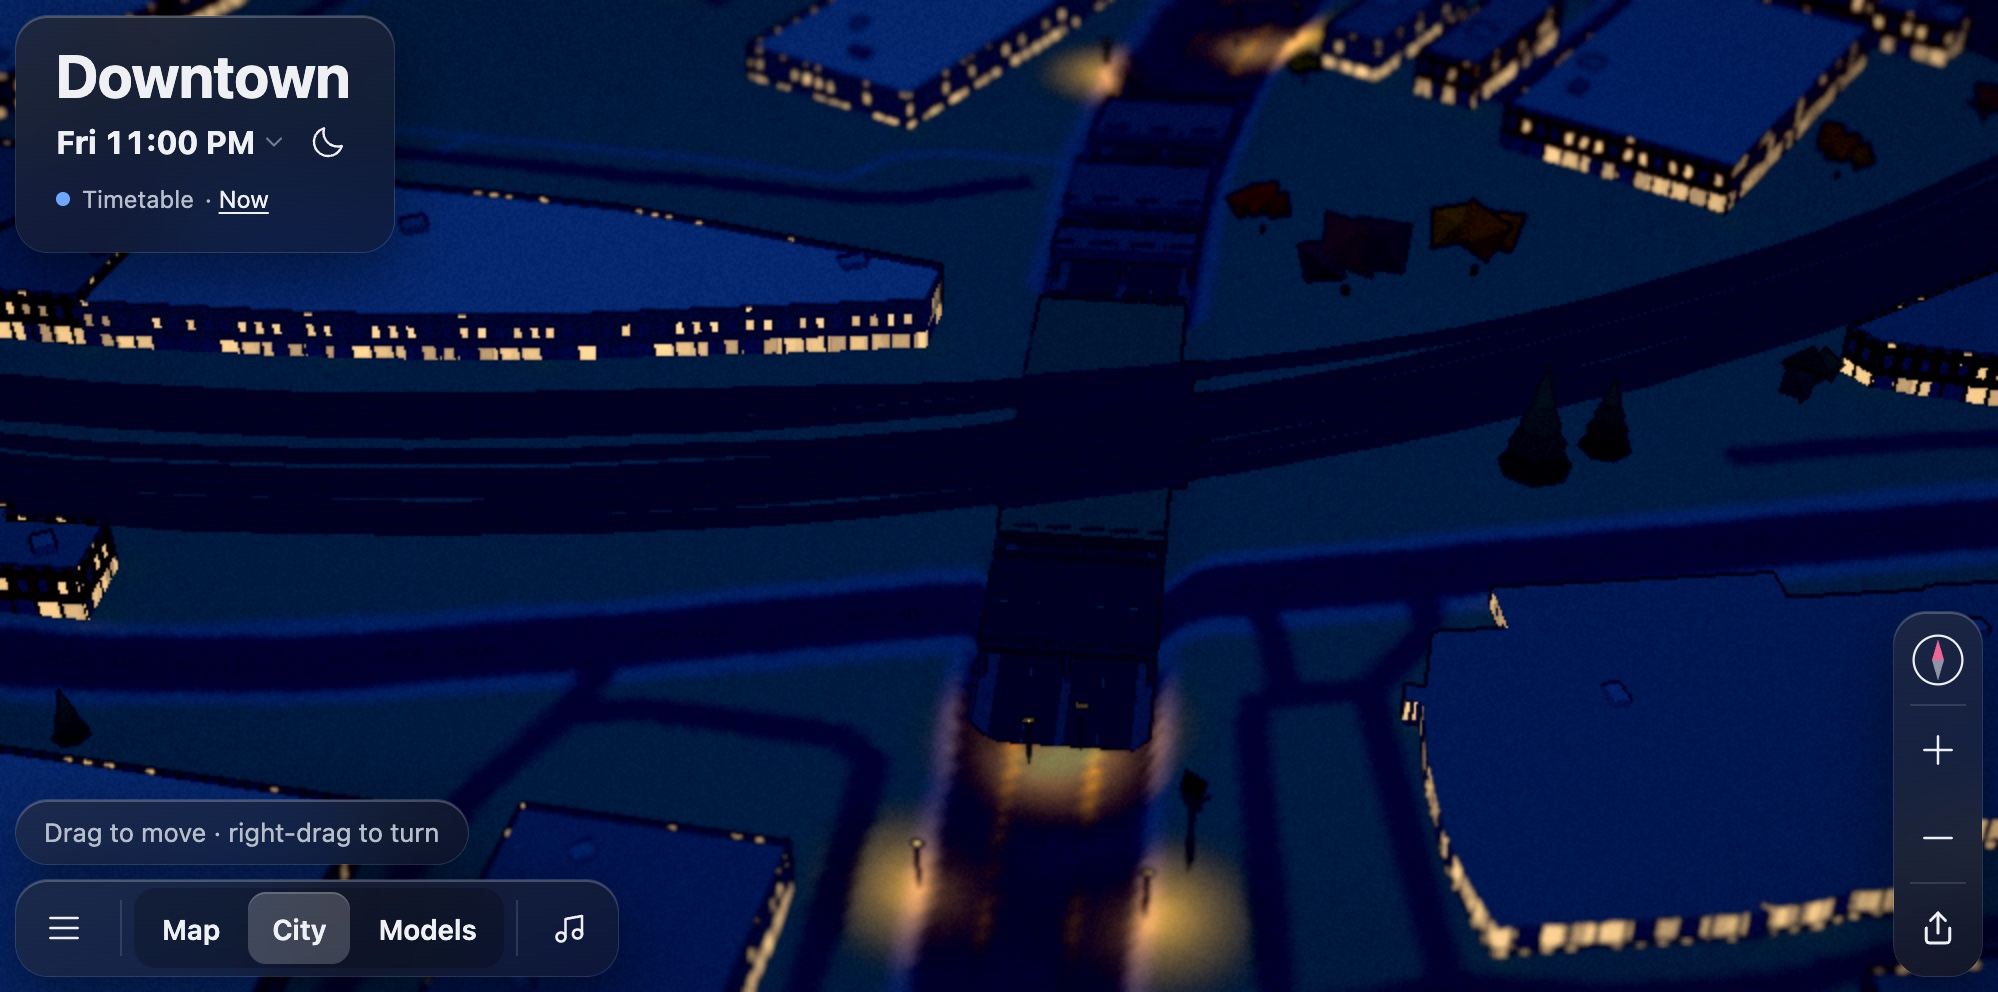
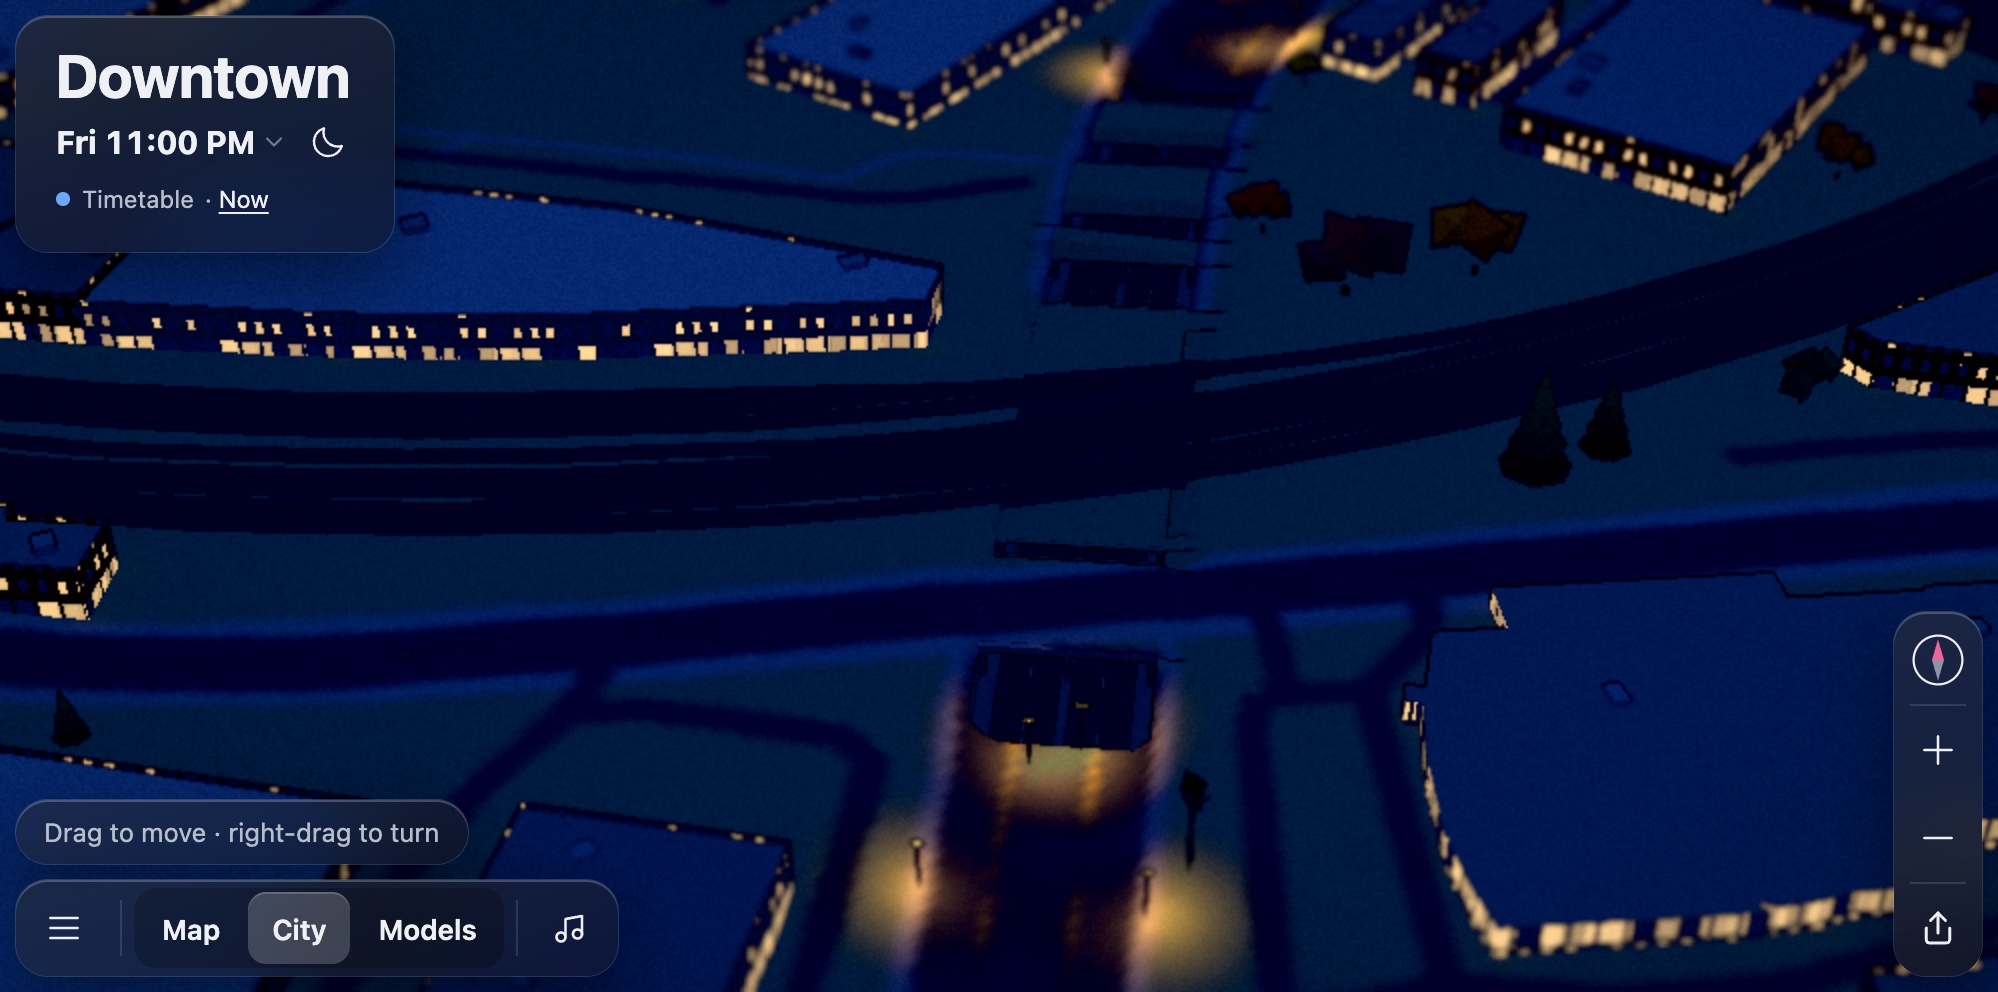
Record option A day and night comparisons on the heap fix

diff --git a/docs/build-log.md b/docs/build-log.md
@@ -3071,3 +3071,26 @@ Compare the [earlier overview](https://github.com/samsolomon/sim-atlanta/blob/03
 and [earlier under-deck view](https://github.com/samsolomon/sim-atlanta/blob/030d123f/docs/log/north-ave-under-deck.jpg)
 with the [revised overview](log/north-ave-after-day.jpg) and [revised under-deck view](log/north-ave-under-deck.jpg).
 The matched low-tier frame adds 4,279 triangles and one draw over main.
+
+### 2026-11-23 — Carry the street and railway across North Avenue
+
+Marietta now uses the same pavement texture, markings and map coordinates on the
+crossing as on the adjacent street. The track ballast continues above the shared
+rail soffit. The three western strips take their crossfall from the banks and
+carry grass over a thin edge. Silhouette ink fades at the cover tops when the
+camera is above them. The lower carriageways retain their walls, supports and shade.
+
+The matched daylight camera on main at `614cf140` measured 1,596,625 triangles
+and 83 draws. Option A measured 1,600,065 and 85, an addition of 3,440 triangles
+and two draws. The pavement and bank transitions share the board's ground material.
+
+| Camera | Previous finish | Option A |
+|---|---|---|
+| Overview, 14:00 | [Before](log/north-ave/option-a-before-day.jpg) | [After](log/north-ave-after-day.jpg) |
+| Overview, 23:00 | [Before](log/north-ave/option-a-before-night.jpg) | [After](log/north-ave-after-night.jpg) |
+| Under deck, 14:00 | [Before](log/north-ave/option-a-before-under-day.jpg) | [After](log/north-ave-under-deck.jpg) |
+| Under deck, 23:00 | [Before](log/north-ave/option-a-before-under-night.jpg) | [After](log/north-ave-under-deck-night.jpg) |
+
+Overview camera `-783,-1860,235,55,350`. Under-deck eye `-762.5,-25.5,-1881.5`,
+target `-797,-25,-1860`, zoom 0.75, near plane 0.05 m. Times are Eastern on
+November 20, 2026.

diff --git a/docs/handoffs/studio-midtown-marta.md b/docs/handoffs/studio-midtown-marta.md
@@ -5,9 +5,10 @@
 The original survey and model decisions are in [North Avenue](../north-ave-underpass.md).
 The [build log](../build-log.md#2026-11-23--north-avenue-reappears-beneath-the-railway)
 links the matched daytime and nighttime overviews and the under-deck view.
-Against main at 7319005e, the low-tier daylight camera measured 1,595,963 triangles
-before and 1,600,242 after, with 83 and 84 draws respectively. Sam is reviewing the revised
-ballast and underpass lighting on draft PR #361. Hold the merge for his decision. Both tier budgets passed.
+Option A supersedes the prior finish. The branch is rebased on the heap fix at
+`614cf140`. At the matched daylight camera it adds 3,440 triangles and two
+draws. [Four paired screenshots](../build-log.md#2026-11-23--carry-the-street-and-railway-across-north-avenue)
+are ready for Sam on draft PR #361. Hold the merge for his decision. Both tier budgets passed.
 
 The rail grade test uses the actual crossing tracks. Both tiers check the rendered
 soffit and support clearance, road-specific vehicle heights and local structure
